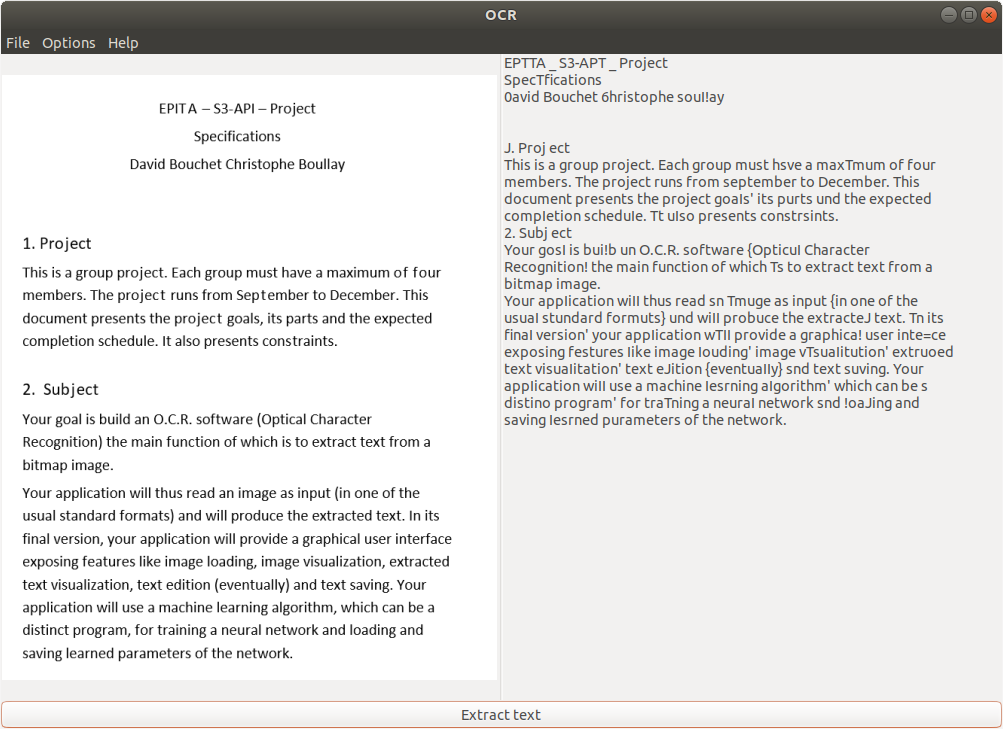
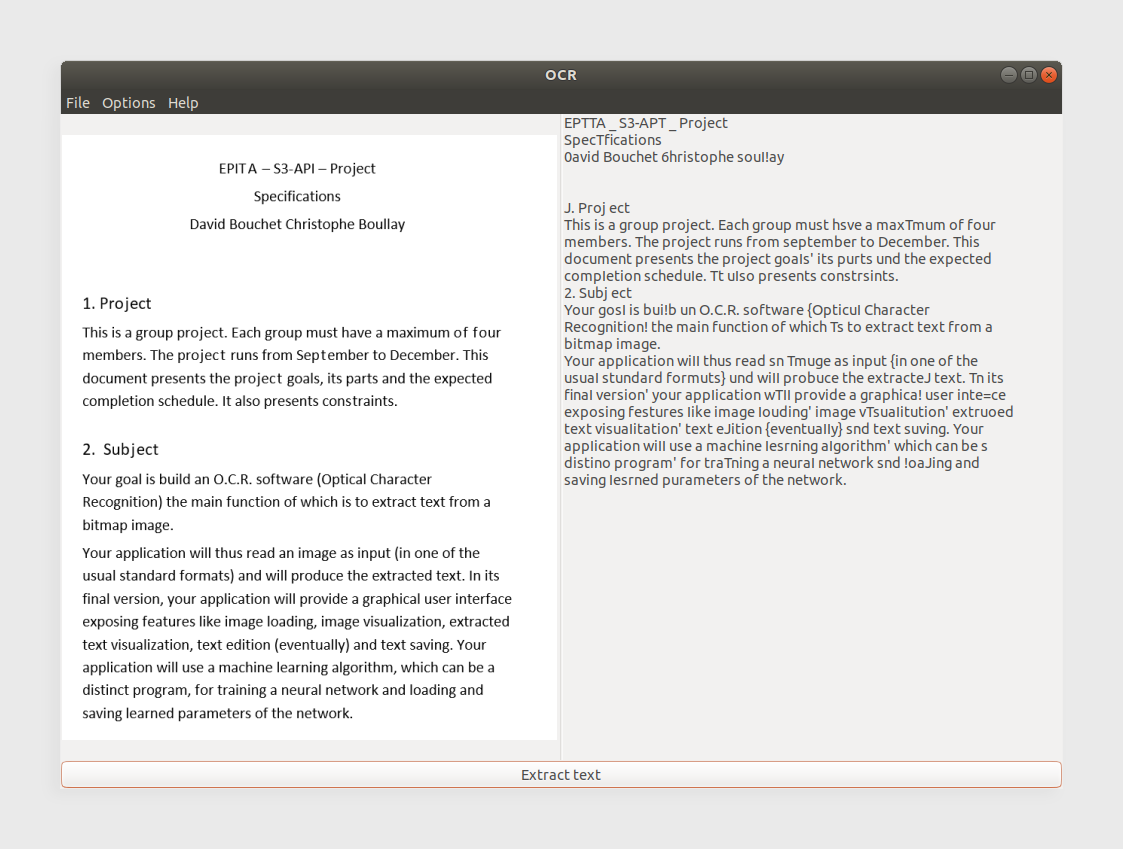
Change project name to match new convention and improve screenshot.

Changed region(s): [[0.0, 0.0, 1.0, 0.9355], [0.0, 0.9657, 1.0, 1.0]]

diff --git a/README.md b/README.md
@@ -4,9 +4,9 @@
 
 ## Project
 
-![Screenshot](https://raw.githubusercontent.com/NoneOfAllOfTheAbove/OCR/master/docs/screenshot.png)  
+![Screenshot](https://raw.githubusercontent.com/NoneOfAllOfTheAbove/ocr/master/docs/screenshot.png)  
 
-OCR stands for Optical Character Recognition software. As part of a student project, our objective is to make a program capable of extracting text from images. It must be written in the C language, rely on a neural network and be used through a GUI. To learn more, please take a look at [the book of specifications](https://github.com/NoneOfAllOfTheAbove/OCR/tree/master/docs/book-of-specifications.pdf).
+OCR stands for Optical Character Recognition software. As part of a student project, our objective is to make a program capable of extracting text from images. It must be written in the C language, rely on a neural network and be used through a GUI. To learn more, please take a look at [the book of specifications](https://github.com/NoneOfAllOfTheAbove/ocr/tree/master/docs/book-of-specifications.pdf).
 
 ## Usage
 
@@ -32,4 +32,4 @@ Features we are working on:
 
 ## Contributing
 
-Refer to [CONTRIBUTING.md](https://github.com/NoneOfAllOfTheAbove/OCR/blob/master/CONTRIBUTING.md).
+Refer to [CONTRIBUTING.md](https://github.com/NoneOfAllOfTheAbove/ocr/blob/master/CONTRIBUTING.md).
